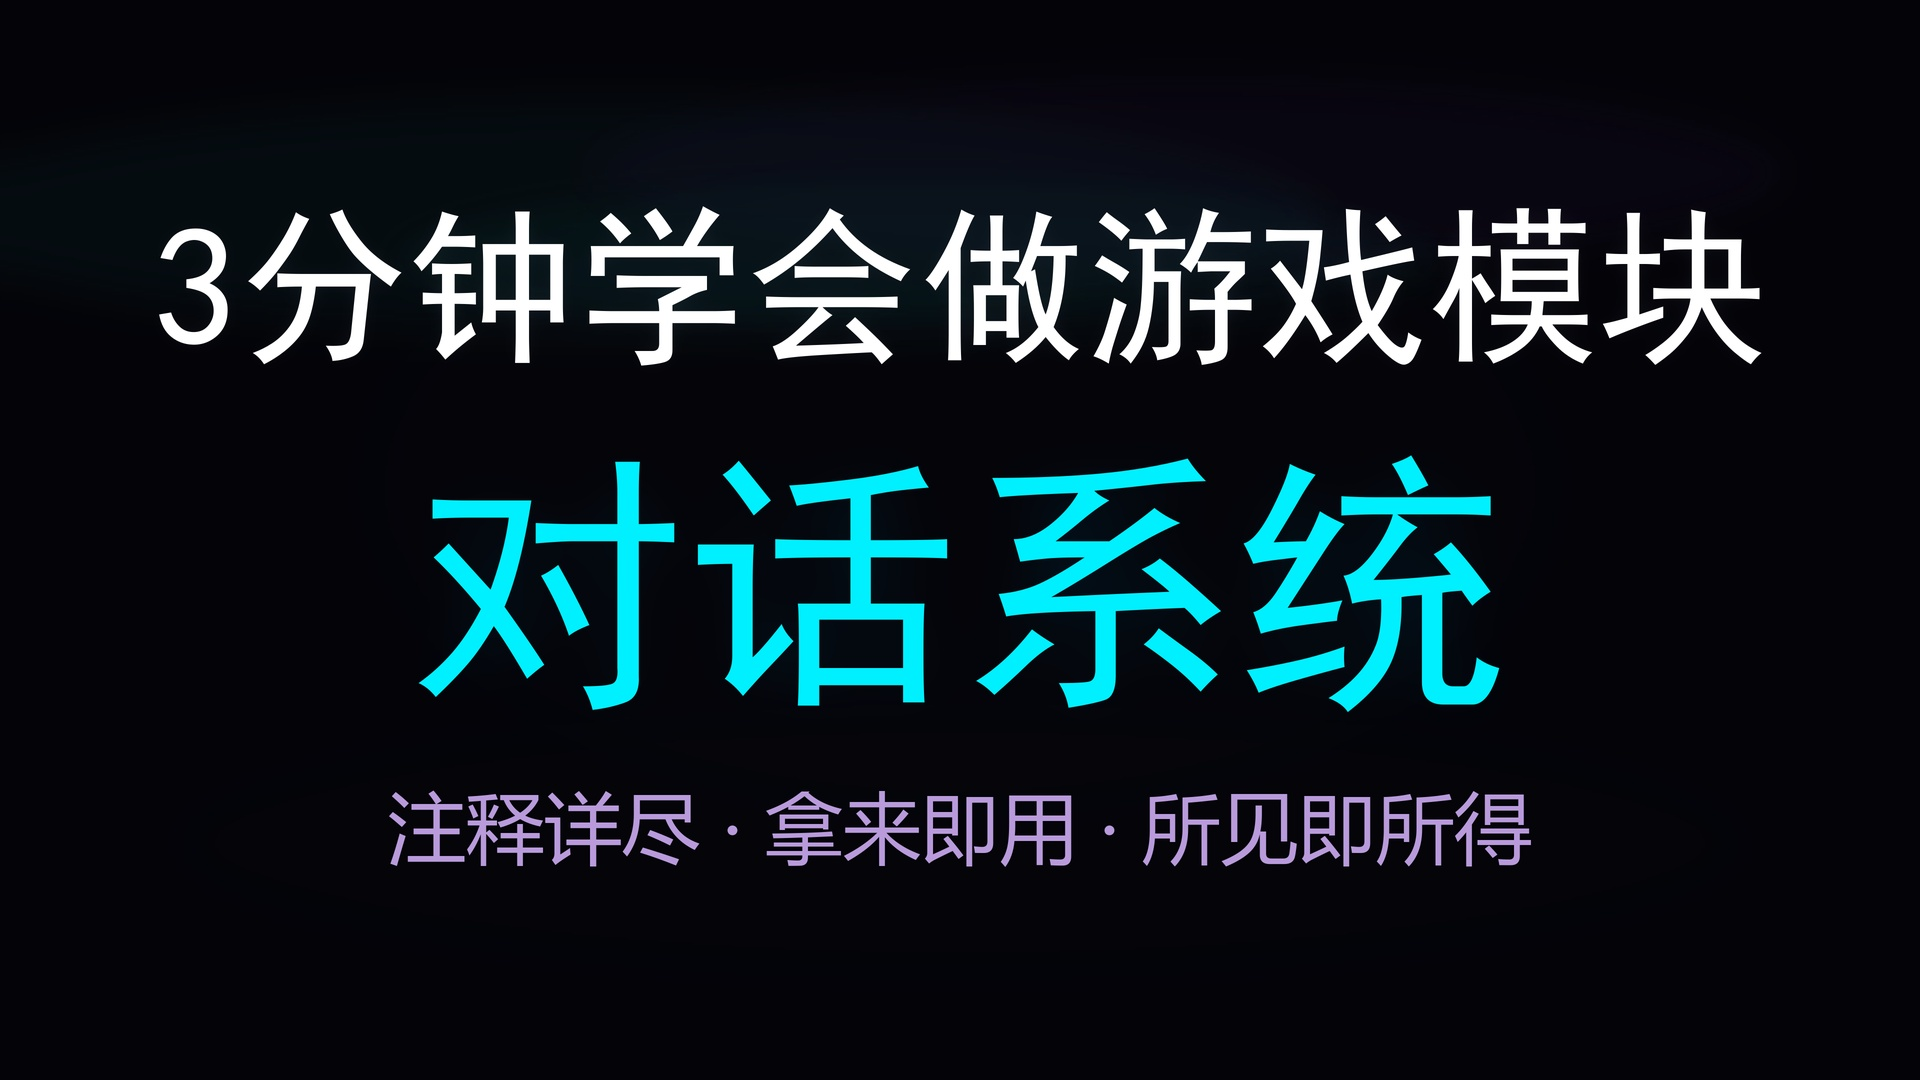
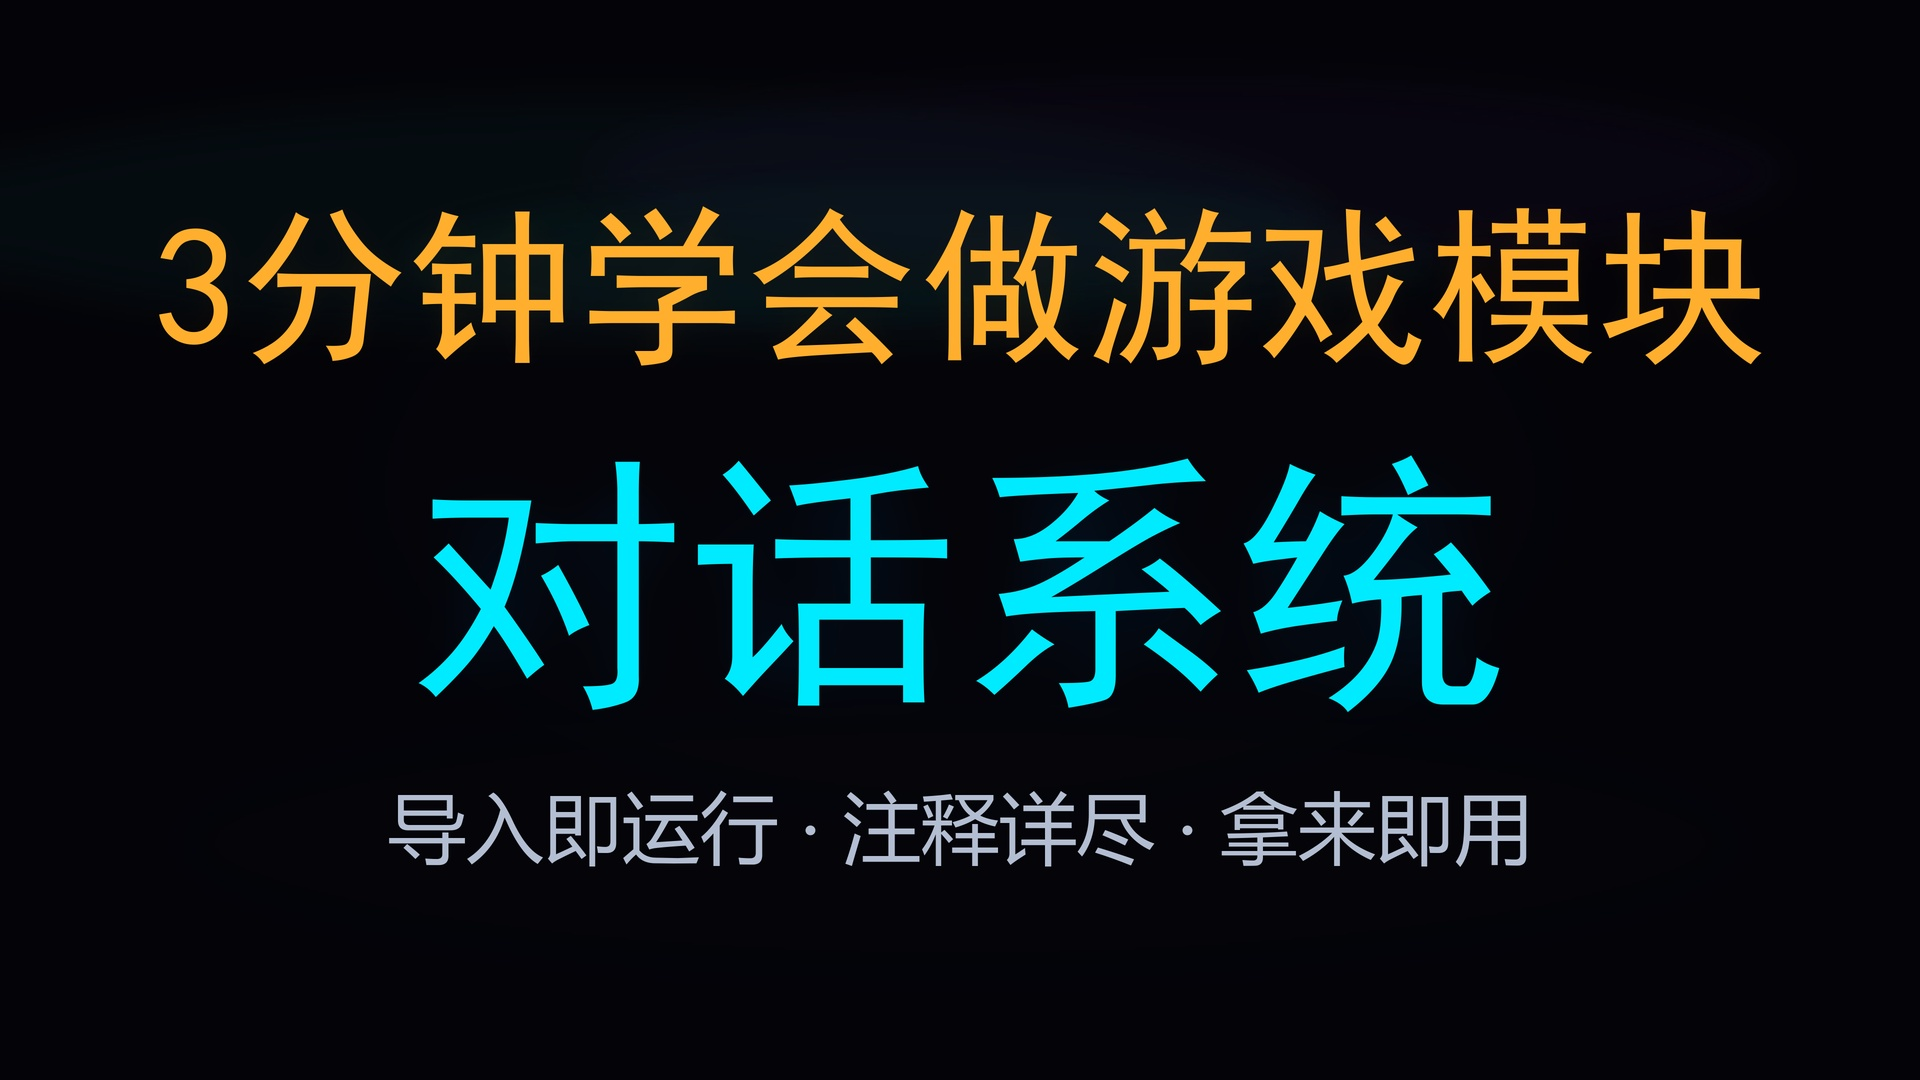
update: 标题和封面文案改为强调导入即运行

Changed region(s): [[0.0625, 0.1833, 0.9375, 0.3361], [0.1875, 0.7333, 0.8125, 0.825]]

diff --git a/index_cos.html b/index_cos.html
@@ -282,7 +282,7 @@
     <!-- Hero -->
     <div class="hero">
         <h1>晚上做游戏的仓库</h1>
-        <p class="subtitle">游戏开发 Demo · 注释详尽 · 拿来即用</p>
+        <p class="subtitle">游戏开发 Demo · 导入即运行 · 注释详尽</p>
         <div class="search-wrap">
             <svg width="18" height="18" viewBox="0 0 24 24" fill="none" stroke="currentColor" stroke-width="2" stroke-linecap="round" stroke-linejoin="round"><circle cx="11" cy="11" r="8"/><line x1="21" y1="21" x2="16.65" y2="16.65"/></svg>
             <input class="search-input" id="searchInput" type="text" placeholder="搜索项目，如 背包、Shader、对话…">
